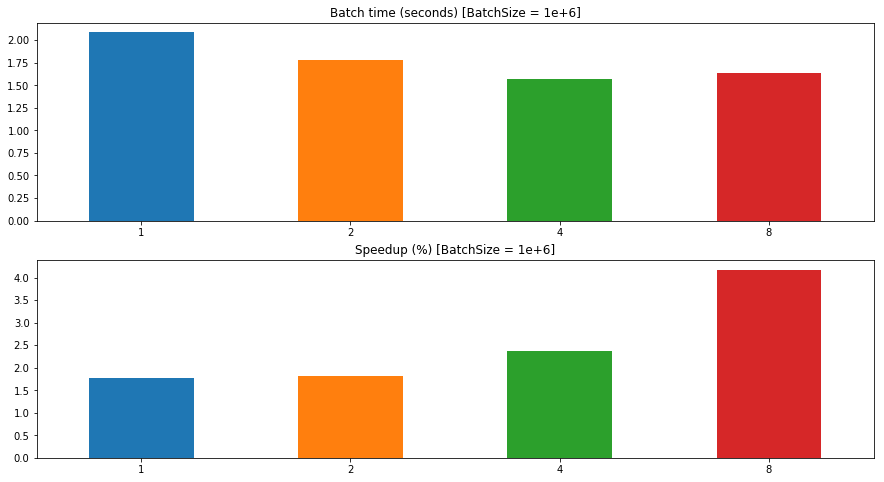
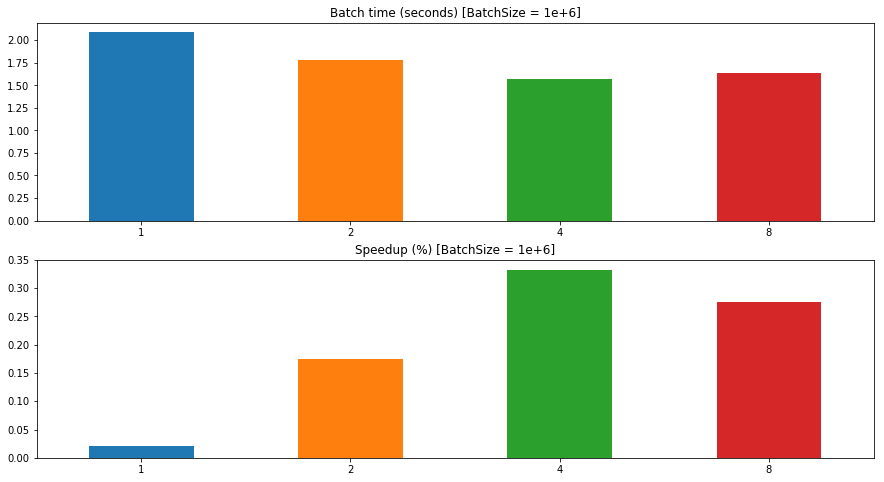
Fix a bug in speedup analysis notebook Speedup was miscalculated due to wrong axis division

diff --git a/docs/README.md b/docs/README.md
@@ -88,8 +88,8 @@ def make_dse_df(data):
     index = [str(t) for t in nb_threads]
 
     df = pd.DataFrame(data=batch_time, columns=columns, index=index)
-    speedup = (df['1e+0'].T / df.T).T - 1
-    speedup['1e+0'] += 2e-2
+    speedup = (df.loc['1'] / df) - 1
+    speedup.loc['1'] += 2e-2
     speedup = speedup.rename(columns={'BatchTime': 'Speedup'})
     return df, speedup
 
@@ -120,13 +120,13 @@ idx_max = speedup_scatter.idxmax()
 max_point = speedup_scatter.iloc[idx_max['SpeedUp']]
 max_nb_threads = int(max_point['NbThreads'])
 max_batch_size = int(max_point['BatchSize'])
-print('Max speedup: {:1.3f}%'.format(max_point['SpeedUp']))
+print('Max speedup: {:1.3f}%'.format(max_point['SpeedUp'] * 100))
 print('  NbThreads: {:d}'.format(max_nb_threads))
 print('  BatchSize: {:d}'.format(max_batch_size))
 ```
 
-    Max speedup: 4.179%
-      NbThreads: 8
+    Max speedup: 33.272%
+      NbThreads: 4
       BatchSize: 1000000
 
 
@@ -162,7 +162,7 @@ speedup_t.plot.bar(y='Speedup', legend=False, title='Speedup (%) [NbThreads = {}
 
 
 
-    <matplotlib.axes._subplots.AxesSubplot at 0x7f9e47c90160>
+    <matplotlib.axes._subplots.AxesSubplot at 0x7f13eede47f0>
 
 
 
@@ -191,7 +191,7 @@ speedup_b.plot.bar(y='Speedup', legend=False, title='Speedup (%) [BatchSize = {}
 
 
 
-    <matplotlib.axes._subplots.AxesSubplot at 0x7f9e47970940>
+    <matplotlib.axes._subplots.AxesSubplot at 0x7f13eeffb048>
 
 
 
